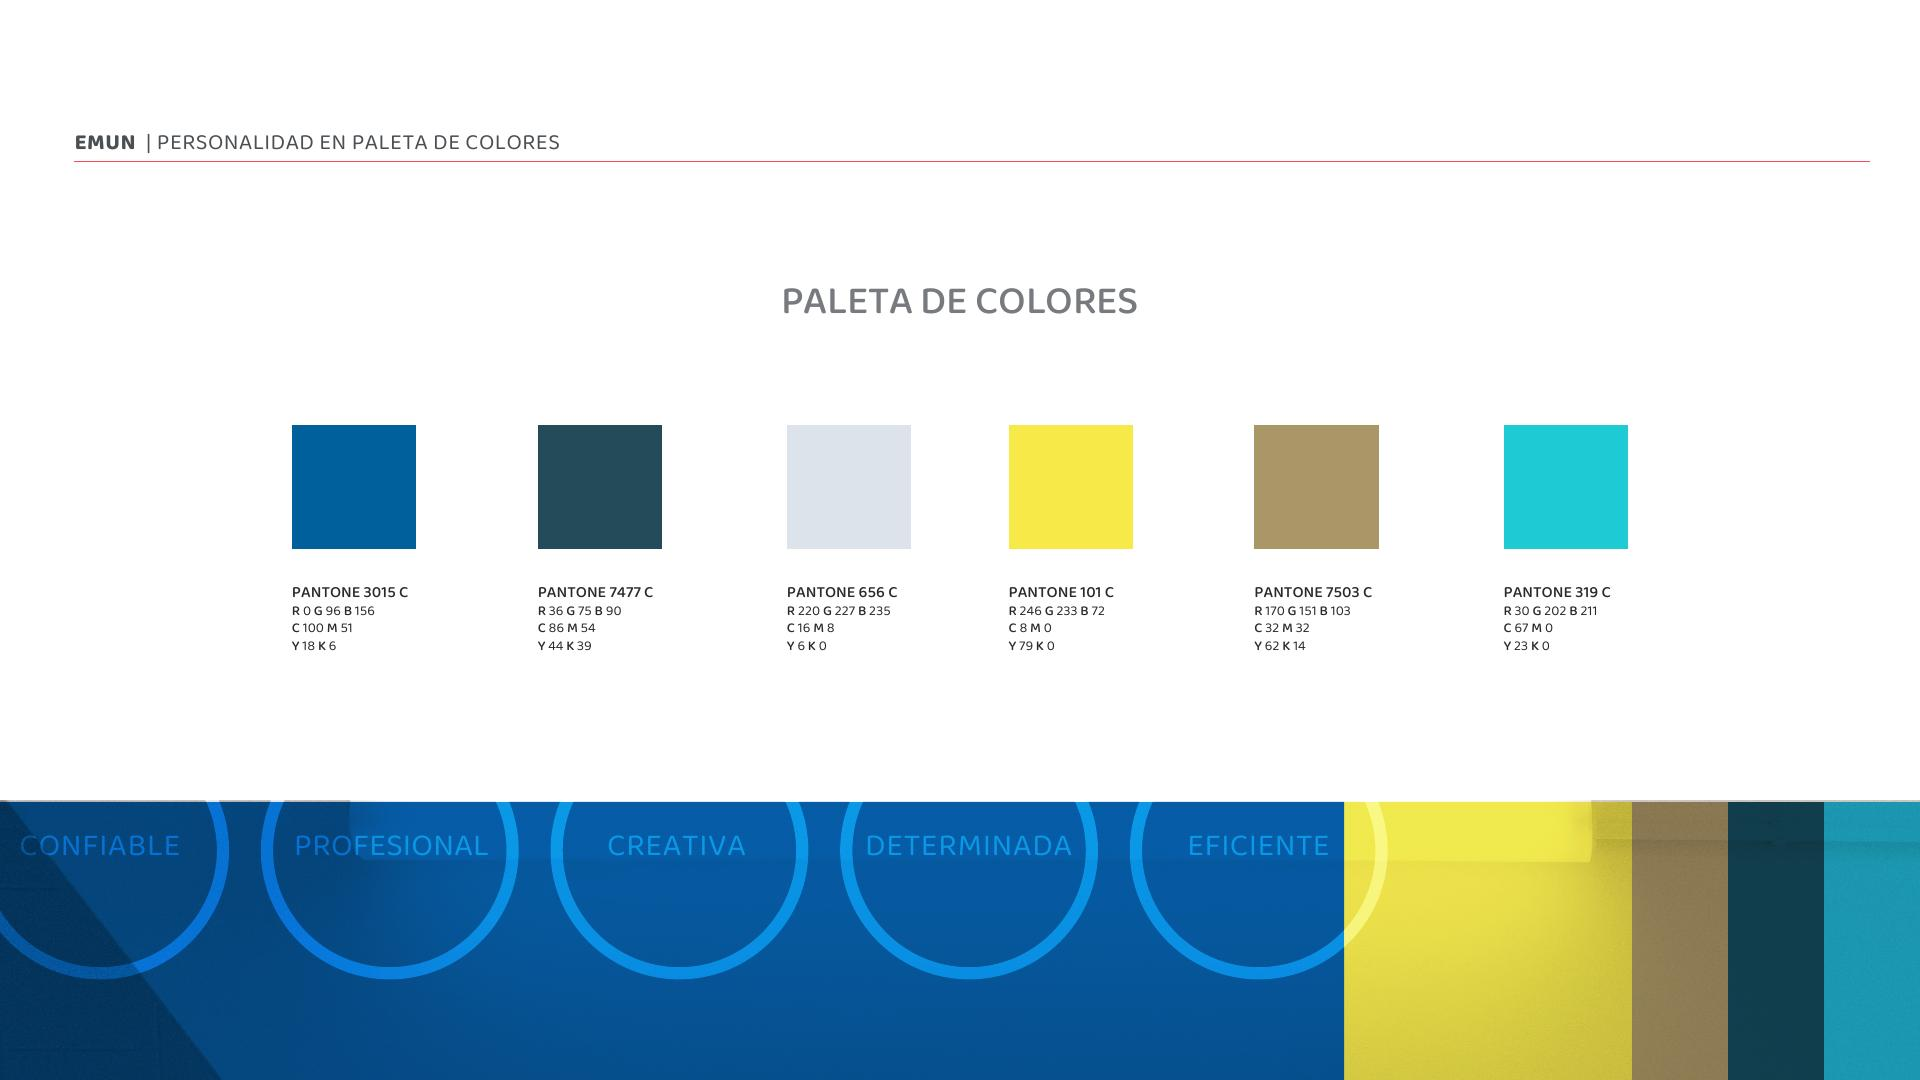
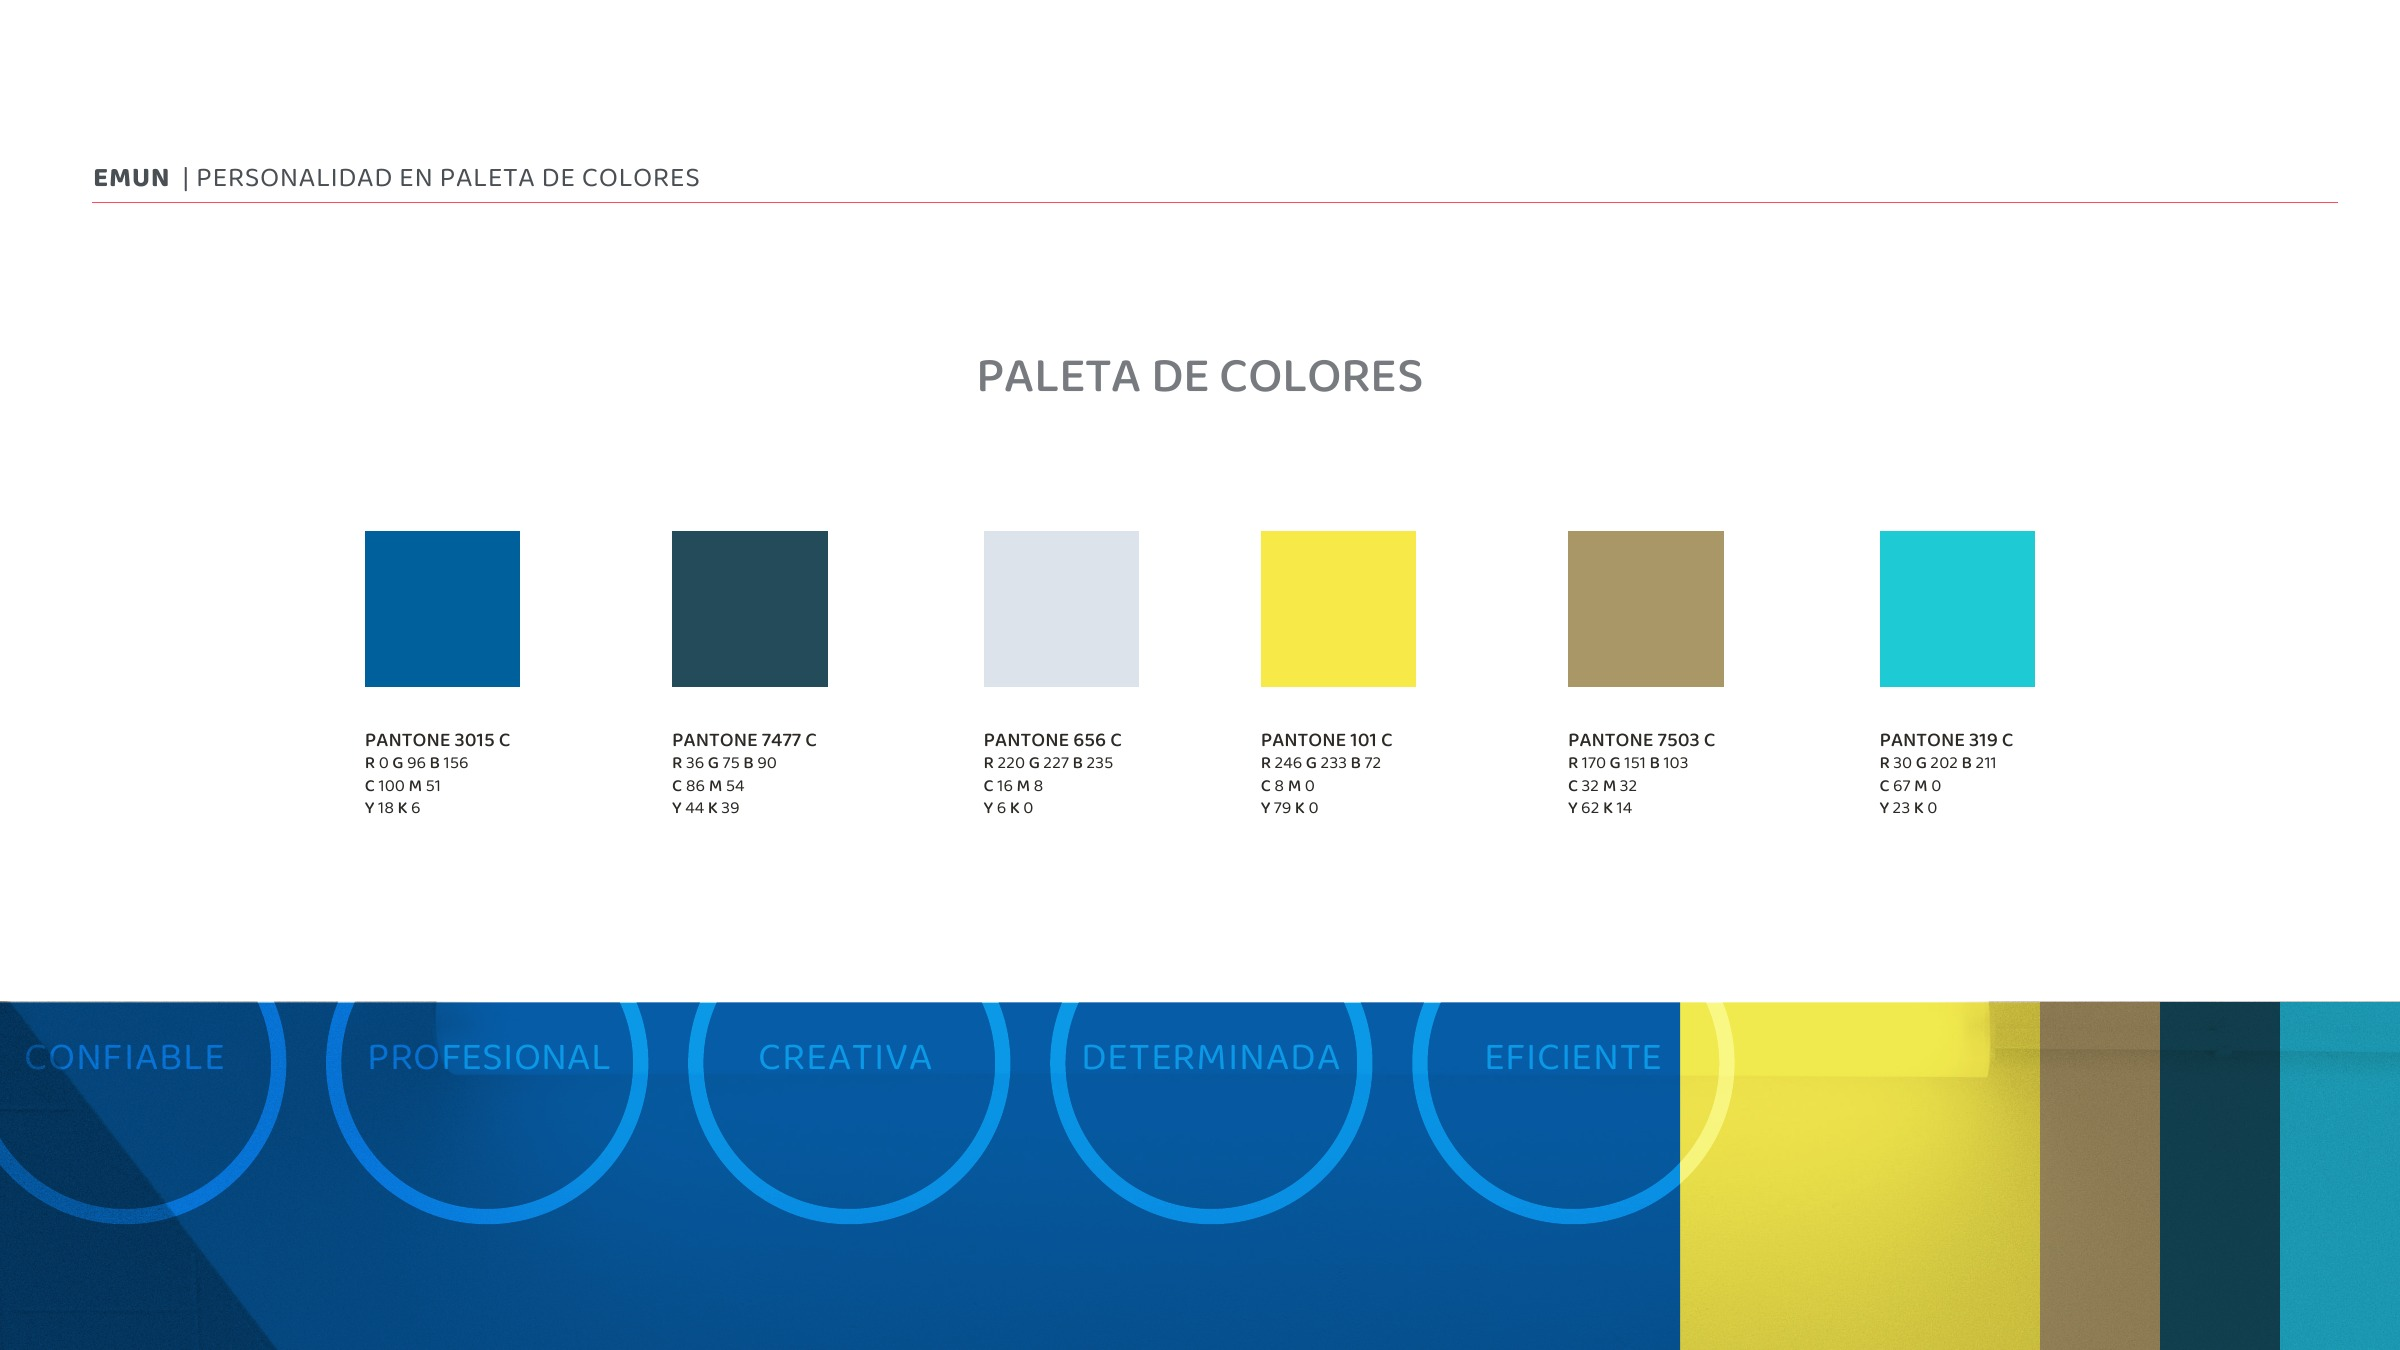
Expand EMUN rebranding case study and refresh Flowing Systems cover

diff --git a/content/_work/emun.md b/content/_work/emun.md
@@ -1,12 +1,12 @@
 ---
-card_label: Electrical & lighting identity
+card_label: Electrical & lighting rebranding
 title: EMUN
 permalink: "/portfolio/emun/"
 order: 10
 name: EMUN
 listing_context: 2022 / Argentina
 context: Argentina · 2022
-role: Brand identity · print materials · brand applications
+role: Rebranding · logo redesign · visual identity · brand applications
 back_label: "← Work"
 back_url: "/work/"
 cover:
@@ -14,26 +14,89 @@ cover:
   alt: EMUN catalogue cover using the yellow electrical symbol and blue wordmark
 media:
 - type: image
-  src: "/content/media/portfolio/emun-7.jpg"
-  alt: EMUN logo concept connecting electricity and light
-- type: image
-  src: "/content/media/portfolio/emun-12.jpg"
-  alt: EMUN modular brand graphics in blue and yellow
-- type: image
-  src: "/content/media/portfolio/emun-17.jpg"
-  alt: EMUN identity applied to a company vehicle
-- type: image
-  src: "/content/media/portfolio/emun-catalogue-cover.png"
-  alt: EMUN catalogue editorial concept
+  src: "/content/media/portfolio/manuals/emun-04.jpg"
+  alt: Sector research and competitor colours
+  fit: contain
 - type: image
   src: "/content/media/portfolio/manuals/emun-05.jpg"
-  alt: EMUN brand colour palette
+  alt: Brand colour palette
+  fit: contain
+- type: image
+  src: "/content/media/portfolio/manuals/emun-06.jpg"
+  alt: Bahnschrift typography system
+  fit: contain
+- type: image
+  src: "/content/media/portfolio/manuals/emun-07.jpg"
+  alt: 'New logo concept: electricity, light and letterforms'
+  fit: contain
+- type: image
+  src: "/content/media/portfolio/manuals/emun-08.jpg"
+  alt: Logo construction and clear space
+  fit: contain
 - type: image
   src: "/content/media/portfolio/manuals/emun-09.jpg"
-  alt: EMUN primary logo and electrical lighting descriptor
+  alt: Redesigned primary logo
+  fit: contain
+- type: image
+  src: "/content/media/portfolio/manuals/emun-10.jpg"
+  alt: Monochrome and colour versions
+  fit: contain
+- type: image
+  src: "/content/media/portfolio/manuals/emun-11.jpg"
+  alt: Horizontal logo and standalone symbol
+  fit: contain
+- type: image
+  src: "/content/media/portfolio/manuals/emun-12.jpg"
+  alt: Graphic system derived from the symbol
+  fit: contain
+- type: image
+  src: "/content/media/portfolio/manuals/emun-13.jpg"
+  alt: Patterns through repetition
+  fit: contain
+- type: image
+  src: "/content/media/portfolio/manuals/emun-14.jpg"
+  alt: Symbol and negative space
+  fit: contain
+- type: image
+  src: "/content/media/portfolio/manuals/emun-15.jpg"
+  alt: Photography, light and textures
+  fit: contain
+- type: image
+  src: "/content/media/portfolio/manuals/emun-17.jpg"
+  alt: Vehicle application
+  fit: contain
+- type: image
+  src: "/content/media/portfolio/manuals/emun-18.jpg"
+  alt: Stamp application
+  fit: contain
+- type: image
+  src: "/content/media/portfolio/manuals/emun-19.jpg"
+  alt: Catalogue proposal
+  fit: contain
 - type: image
   src: "/content/media/portfolio/manuals/emun-20.jpg"
-  alt: EMUN Instagram profile and story system
+  alt: Instagram identity system
+  fit: contain
+- type: image
+  src: "/content/media/portfolio/manuals/emun-21.jpg"
+  alt: Social media grid
+  fit: contain
+- type: image
+  src: "/content/media/portfolio/manuals/emun-23.jpg"
+  alt: Story and feed applications
+  fit: contain
+- type: image
+  src: "/content/media/portfolio/manuals/emun-24.jpg"
+  alt: Branded stationery
+  fit: contain
+- type: image
+  src: "/content/media/portfolio/manuals/emun-25.jpg"
+  alt: 'Uniform: front'
+  fit: contain
+- type: image
+  src: "/content/media/portfolio/manuals/emun-26.jpg"
+  alt: 'Uniform: back'
+  fit: contain
 type: project
 tags:
 - design
@@ -44,18 +107,38 @@ key: emun
 sections:
 - layout: newspaper
   text: |-
-    ## About the project
+    ## About the rebranding
 
-    Bring order and professional presence to a young electrical and lighting company serving wholesale and retail customers.
+    EMUN is an Argentine company selling electrical and lighting products to wholesale and retail customers. This rebranding aimed to give the business a more professional, contemporary and recognisable presence, with trust and efficiency at the centre of its positioning.
+
+    The process began with an exploration of brand personality and a review of colour use across the electrical and lighting sector. These references informed a visual direction that balanced technical clarity with an accessible, energetic character.
 - layout: newspaper
   text: |-
-    ## My part
+    ## A redesigned logo
 
-    I developed a visual identity connecting energy, light and the letter E through a bold modular symbol. The work included the logo, colour and typography, visual modules, catalogue direction, social media templates, uniforms and vehicle graphics.
+    I designed a new logo bringing together electrical and lighting references with the brand’s letterforms. Its compact symbol works within the wordmark or independently as an icon.
+
+    The guidelines document logo construction, clear space, horizontal configuration, monochrome versions and use on different backgrounds, supporting consistent application across print and digital formats.
 - layout: newspaper
-  text: "## Project link\n\n[Live project **Visit the EMUN website**](https://emun.com.ar/) \n\nMy contribution **Brand identity
-    · print materials · brand applications**"
-question: How can an electrical and lighting business communicate consistently?
+  text: |-
+    ## From symbol to visual system
+
+    Blue and yellow anchor the identity, supported by a broader palette. The Bahnschrift type family provides a consistent structure, with different weights and condensed styles for headings, descriptors and supporting information.
+
+    Enlargement, rotation, repetition and negative space turn the symbol into a flexible graphic language. Light, neutral surfaces and architectural textures provide a photographic context connected to the company’s products.
+- layout: newspaper
+  text: |-
+    ## My part and applications
+
+    My work covered the rebranding, logo redesign, colour and typography, graphic language and identity guidelines. I developed applications and proposals for a product catalogue, Instagram profile, feed and stories, company vehicle, stamps, stationery and uniforms.
+
+    The gallery follows the project from research and logo development to these applications. Mockups illustrate the proposed uses of the system across different scales and contexts.
+- layout: newspaper
+  text: |-
+    ## Project link
+
+    [Visit the EMUN website ↗](https://emun.com.ar/)
+question: How can a new visual identity reposition an electrical and lighting brand?
 credits:
 - role: Brand identity, print materials and applications
   name: Gina Marín
@@ -64,16 +147,20 @@ credits:
 portfolio_pdf:
   category: design-communication
   layout: project
-  summary: For an electrical and lighting company, I developed an identity connecting energy, light and
-    the letter E through a modular symbol. Logo, colour and typography extend into visual modules, catalogue
-    direction and social media templates. Uniform and vehicle applications demonstrate how the system
-    can carry a consistent identity across different contexts.
+  summary: Rebranding for an Argentine electrical and lighting company, including
+    a redesigned logo, colour palette, Bahnschrift typography and modular graphics
+    derived from the symbol. Identity guidelines and catalogue, social media, vehicle,
+    stationery and uniform proposals show the system across print and digital contexts.
   images:
-  - src: /content/media/portfolio/emun-catalogue-cover.png
+  - src: "/content/media/portfolio/emun-catalogue-cover.png"
     caption: EMUN catalogue cover using the yellow electrical symbol and blue wordmark
     fit: contain
-  - src: /content/media/portfolio/emun-7.jpg
+  - src: "/content/media/portfolio/emun-7.jpg"
     caption: EMUN logo concept connecting electricity and light
     fit: contain
-  credits: 'Brand identity, print materials and applications: Gina Marín. Client: EMUN'
+  credits: 'Brand identity, print materials and applications: Gina Marín. Client:
+    EMUN'
+gallery_layout: square-grid
+gallery_aspect: landscape
+show_cover_in_gallery: false
 ---

diff --git a/content/_work/body-interface-series.md b/content/_work/body-interface-series.md
@@ -14,11 +14,11 @@ featured: false
 order: 300
 permalink: "/work/body-interface-series/"
 thumbnail:
-  src: /content/media/artworks/clean/graphic-12-square.jpg
+  src: /content/media/flowing-systems/cover-enhanced.png
   position: 50% 50%
   zoom: 1
 cover:
-  src: "/content/media/artworks/clean/graphic-12.jpg"
+  src: "/content/media/flowing-systems/cover-enhanced.png"
   alt: Flowing Systems I
 listing_context: 2017–2024 · Artwork series
 work_lists:
@@ -38,7 +38,7 @@ portfolio_pdf:
     than a fixed outline. Presented together, the selected pieces connect drawing and printmaking with
     the wider Body.Interface research into how bodies become images.
   images:
-  - src: /content/media/artworks/clean/graphic-12.jpg
+  - src: /content/media/flowing-systems/cover-enhanced.png
     caption: Flowing Systems I | 2018 | Ink on paper | 42 × 59.4 cm
     fit: contain
   - src: /content/media/artworks/clean/graphic-01.jpg
